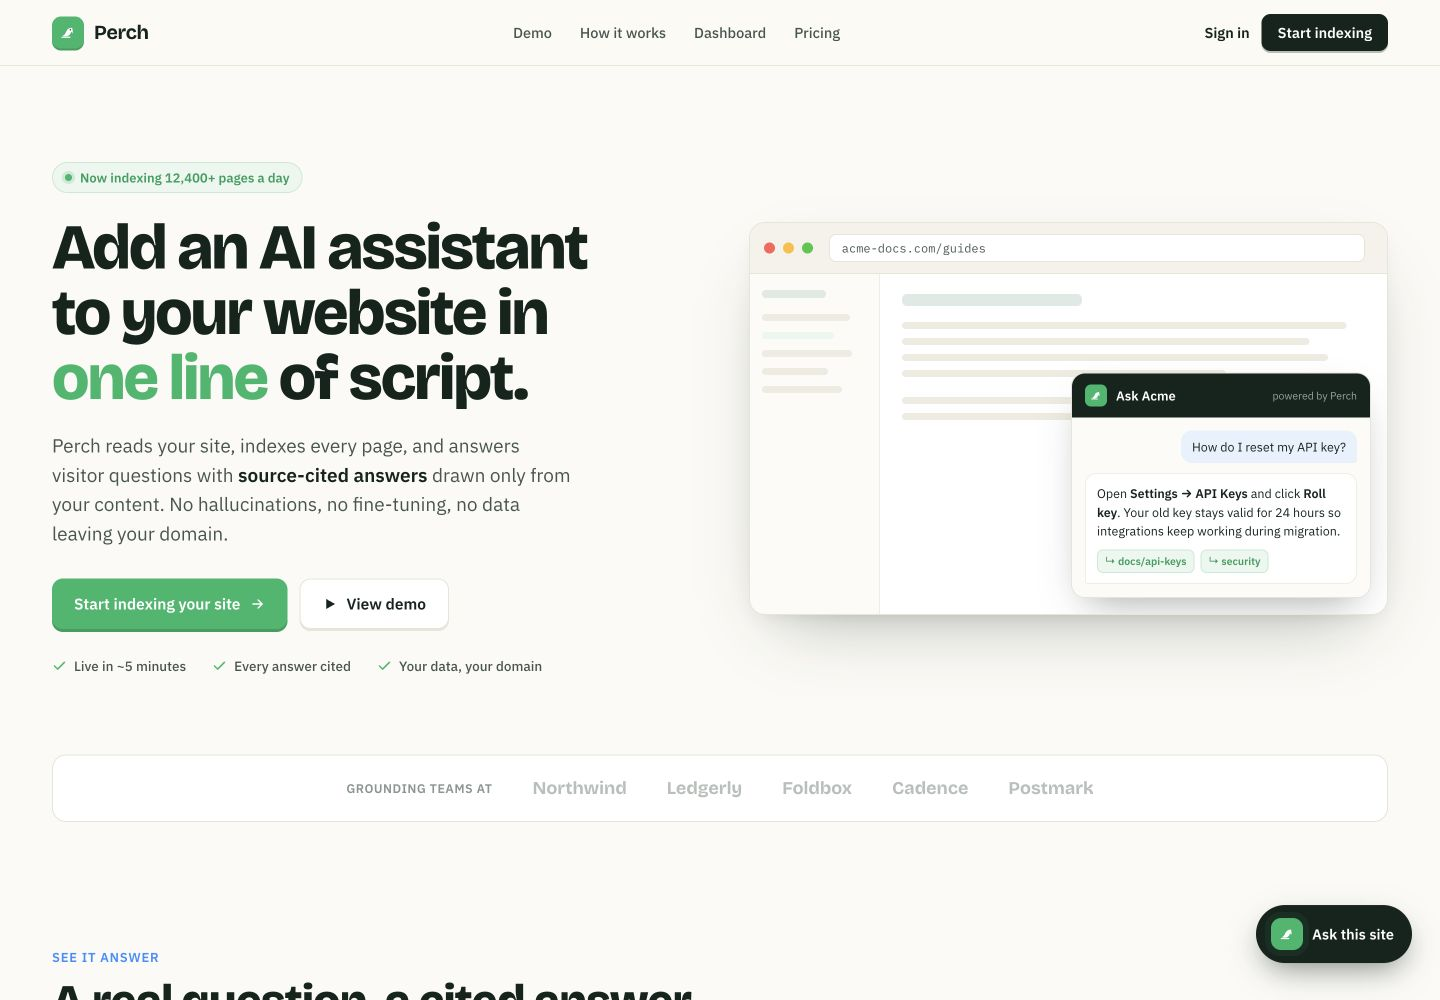
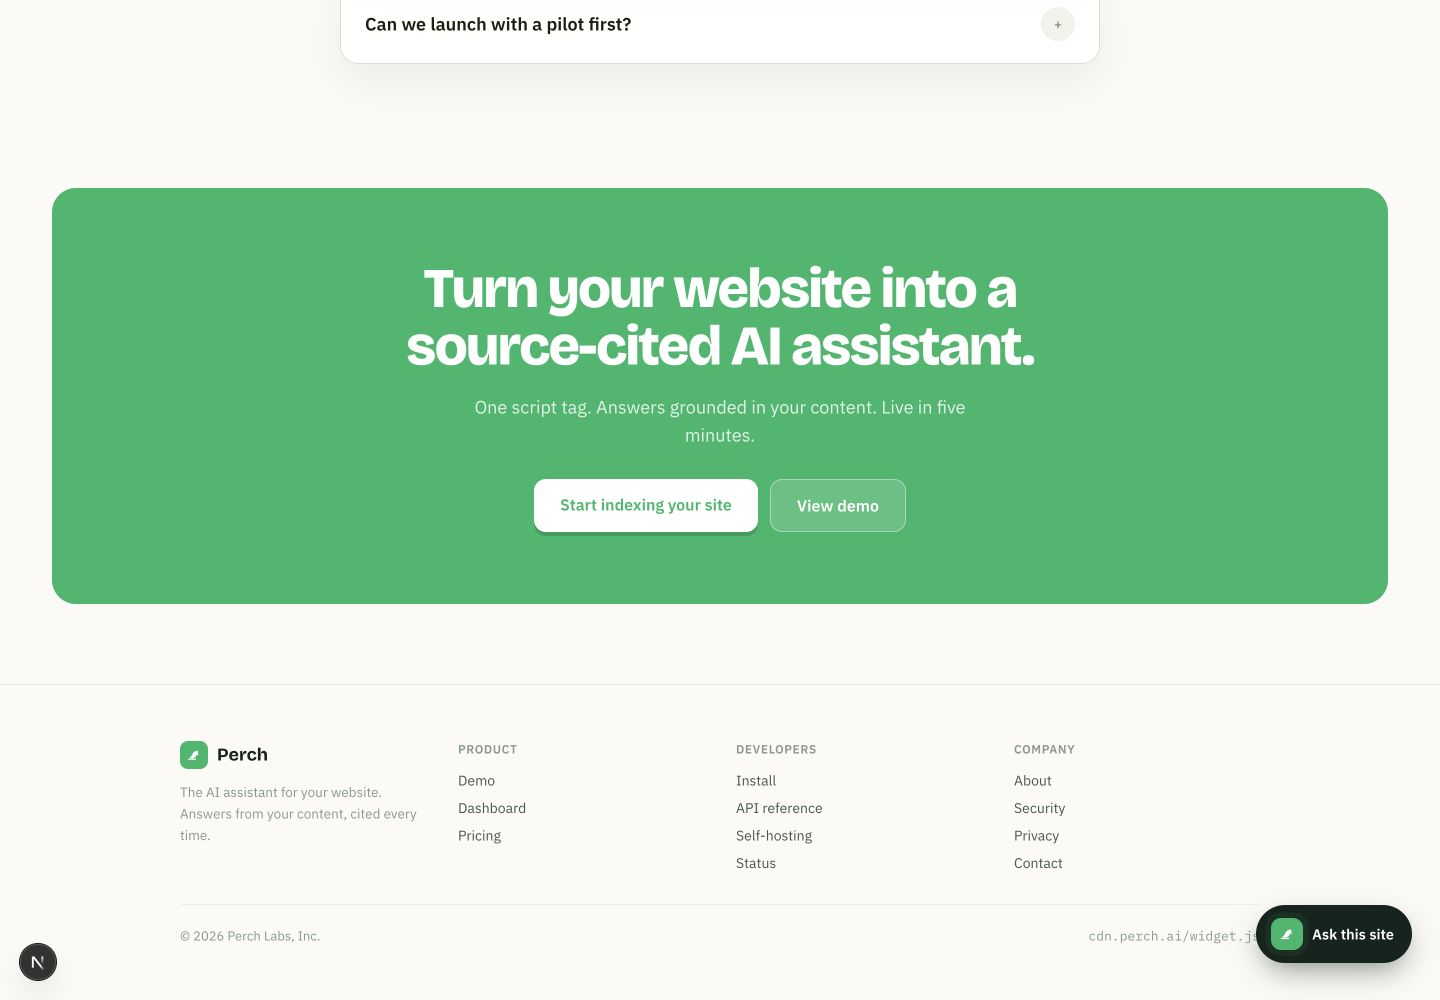
Polish frontend demo experience

diff --git a/apps/web/app/globals.css b/apps/web/app/globals.css
@@ -441,6 +441,118 @@ body > div section [style*="border-radius:18px"]:hover {
 }
 
 @media (max-width: 640px) {
+  body > div {
+    width: 100%;
+    max-width: 100vw;
+    overflow-x: hidden;
+  }
+
+  body > div > nav {
+    align-items: flex-start !important;
+    padding: 12px 18px !important;
+  }
+
+  nav {
+    align-items: center !important;
+    padding: 12px 18px !important;
+  }
+
+  nav > div:nth-of-type(1) {
+    max-width: 44vw;
+    gap: 14px !important;
+    overflow: hidden;
+  }
+
+  nav > div:nth-of-type(1) a:nth-child(n + 3),
+  nav > div:nth-of-type(2) a {
+    display: none !important;
+  }
+
+  body > div > nav > div:nth-child(2) {
+    max-width: 46vw;
+    gap: 14px !important;
+    overflow: hidden;
+  }
+
+  body > div > nav > div:nth-child(2) a:nth-child(n + 3),
+  body > div > nav > div:nth-child(3) a:first-child {
+    display: none !important;
+  }
+
+  body > div > nav > div:nth-child(3) a:last-child {
+    padding: 8px 10px !important;
+    font-size: 13px !important;
+    white-space: nowrap;
+  }
+
+  body > div > section {
+    max-width: 100vw;
+  }
+
+  body > div > section h1 {
+    max-width: 100%;
+    font-size: clamp(40px, 14vw, 56px) !important;
+    overflow-wrap: anywhere;
+  }
+
+  body > div > section h2 {
+    overflow-wrap: anywhere;
+  }
+
+  body > div > section p {
+    max-width: 100%;
+  }
+
+  body > div > section a {
+    max-width: 100%;
+  }
+
+  body > div > section:first-of-type > div:first-child > div:nth-of-type(2) a {
+    width: 100%;
+    justify-content: center;
+  }
+
+  body > div > section:first-of-type > div:nth-child(2) {
+    min-width: 0;
+  }
+
+  body > div > section:first-of-type > div:nth-child(2) > div > div:nth-child(2) {
+    grid-template-columns: 92px minmax(0, 1fr) !important;
+    min-height: 300px !important;
+  }
+
+  body > div > section:first-of-type > div:nth-child(2) > div > div:nth-child(2) > div:nth-child(3) {
+    right: 10px !important;
+    bottom: 10px !important;
+    width: min(280px, calc(100% - 20px)) !important;
+  }
+
+  body > div > section:first-of-type span[style*="acme-docs.com"] {
+    min-width: 0;
+    overflow: hidden;
+    text-overflow: ellipsis;
+    white-space: nowrap;
+  }
+
+  body > div > section:nth-of-type(6) > div:nth-child(2) > div:first-child {
+    flex-wrap: wrap;
+  }
+
+  body > div > section:nth-of-type(6) > div:nth-child(2) > div:first-child > span:last-child {
+    width: 100%;
+    margin-left: 0 !important;
+    overflow-x: auto;
+    padding-top: 4px;
+  }
+
+  body > div > section:nth-of-type(6) > div:nth-child(2) > div:nth-child(2) > div:first-child > div:first-child {
+    grid-template-columns: 1fr !important;
+  }
+
+  body > div > section [style*="font-family:'IBM Plex Mono'"] {
+    overflow-wrap: anywhere;
+  }
+
   .perch-widget {
     right: 12px;
     bottom: 12px;

diff --git a/apps/web/components/widget/SiteInteractions.tsx b/apps/web/components/widget/SiteInteractions.tsx
@@ -15,9 +15,45 @@ function setFaqState(item: HTMLElement, open: boolean) {
   indicator.style.color = open ? "#ffffff" : "#5d7550";
 }
 
+function formatCount(value: number, format?: string) {
+  if (format === "comma") {
+    return Math.round(value).toLocaleString("en-US");
+  }
+
+  if (value % 1 !== 0) {
+    return value.toFixed(1);
+  }
+
+  return Math.round(value).toString();
+}
+
 export function SiteInteractions() {
   useEffect(() => {
     const faqQuestions = [...document.querySelectorAll<HTMLButtonElement>("[data-faq-question]")];
+    const counters = [...document.querySelectorAll<HTMLElement>("[data-countup]")];
+    const animations = counters.map((counter) => {
+      const target = Number(counter.dataset.countup);
+      const format = counter.dataset.fmt;
+      const startedAt = performance.now();
+      const duration = 900;
+      let frame = 0;
+
+      const tick = (time: number) => {
+        const progress = Math.min((time - startedAt) / duration, 1);
+        const eased = 1 - Math.pow(1 - progress, 3);
+        counter.textContent = formatCount(target * eased, format);
+
+        if (progress < 1) {
+          frame = requestAnimationFrame(tick);
+        }
+      };
+
+      frame = requestAnimationFrame(tick);
+
+      return () => {
+        cancelAnimationFrame(frame);
+      };
+    });
 
     const faqHandlers = faqQuestions.map((question) => {
       const handler = () => {
@@ -41,6 +77,7 @@ export function SiteInteractions() {
 
     return () => {
       faqHandlers.forEach((removeHandler) => removeHandler());
+      animations.forEach((removeAnimation) => removeAnimation());
     };
   }, []);
 

diff --git a/apps/web/components/widget/CopySnippetButton.tsx b/apps/web/components/widget/CopySnippetButton.tsx
@@ -5,6 +5,19 @@ import { createPortal } from "react-dom";
 
 const snippet = "<script src=\"https://cdn.perch.ai/widget.js\" data-perch-key=\"pk_live_8f2c...a91\"></script>";
 
+async function copySnippetText() {
+  if (navigator.clipboard?.writeText) {
+    try {
+      await navigator.clipboard.writeText(snippet);
+      return true;
+    } catch {
+      return copyWithField();
+    }
+  }
+
+  return copyWithField();
+}
+
 function copyWithField() {
   const field = document.createElement("textarea");
   field.value = snippet;
@@ -32,14 +45,7 @@ export function CopySnippetButton() {
   function copySnippet() {
     setLabel("copied");
     window.setTimeout(() => setLabel("copy"), 1400);
-
-    if (copyWithField()) {
-      return;
-    }
-
-    if (navigator.clipboard?.writeText) {
-      void navigator.clipboard.writeText(snippet).catch(() => undefined);
-    }
+    void copySnippetText();
   }
 
   if (!target) {
@@ -51,7 +57,6 @@ export function CopySnippetButton() {
       className="perch-copy-button"
       type="button"
       onClick={copySnippet}
-      onPointerDown={copySnippet}
       onKeyDown={(event) => {
         if (event.key === "Enter" || event.key === " ") {
           copySnippet();

diff --git a/apps/web/app/landing-template.html b/apps/web/app/landing-template.html
@@ -192,8 +192,7 @@ body{margin:0;background:#FBFAF5;color:#14241d;font-family:"IBM Plex Sans",syste
       <span style="margin-left:6px;font-family:'IBM Plex Mono',monospace;font-size:11.5px;color:#6E8078">index.html</span>
       <span id="perch-copy-slot" style="margin-left:auto;display:inline-flex"></span>
     </div>
-    <pre style="margin:0;padding:20px 18px;overflow-x:auto;font-family:'IBM Plex Mono',monospace;font-size:13.5px;line-height:1.7"><span style="color:#6E8078">&lt;!-- Add before &lt;/body&gt; --&gt;</span>
-<span style="color:#7FB2FF">&lt;script</span> <span style="color:#FDB022">src</span>=<span style="color:#9BE7C0">"https://cdn.perch.ai/widget.js"</span>
+    <pre style="margin:0;padding:20px 18px;overflow-x:auto;font-family:'IBM Plex Mono',monospace;font-size:13.5px;line-height:1.7"><span style="color:#7FB2FF">&lt;script</span> <span style="color:#FDB022">src</span>=<span style="color:#9BE7C0">"https://cdn.perch.ai/widget.js"</span>
         <span style="color:#FDB022">data-perch-key</span>=<span style="color:#9BE7C0">"pk_live_8f2c...a91"</span><span style="color:#7FB2FF">&gt;&lt;/script&gt;</span></pre>
   </div>
 </section>
@@ -269,10 +268,11 @@ body{margin:0;background:#FBFAF5;color:#14241d;font-family:"IBM Plex Sans",syste
         <div style="font-size:13px;font-weight:600;margin-bottom:10px">Install snippet</div>
         <div style="background:#0C1712;border-radius:10px;padding:13px 14px;font-family:'IBM Plex Mono',monospace;font-size:11.5px;line-height:1.6;color:#9BE7C0;overflow-x:auto;margin-bottom:22px"><span style="color:#7FB2FF">&lt;script</span> src=<span style="color:#9BE7C0">"…/widget.js"</span> data-perch-key=<span style="color:#FDB022">"pk_live_8f2c"</span><span style="color:#7FB2FF">&gt;&lt;/script&gt;</span></div>
 
-        <div style="font-size:13px;font-weight:600;margin-bottom:10px">Widget theme</div>
-        <div style="display:flex;align-items:center;gap:14px;flex-wrap:wrap">
-          <div style="display:flex;gap:8px;align-items:center"><span style="font-size:12px;color:#46564f">Accent</span><span style="width:22px;height:22px;border-radius:6px;background:#12B76A;box-shadow:0 0 0 2px #fff,0 0 0 3.5px #12B76A"></span><span style="width:22px;height:22px;border-radius:6px;background:#2E90FA"></span><span style="width:22px;height:22px;border-radius:6px;background:#FDB022"></span><span style="width:22px;height:22px;border-radius:6px;background:#14241d"></span></div>
-          <div style="display:flex;gap:8px;align-items:center"><span style="font-size:12px;color:#46564f">Corner</span><div style="width:38px;height:22px;background:#EFEDE3;border-radius:999px;position:relative"><span style="position:absolute;top:2px;right:2px;width:18px;height:18px;border-radius:50%;background:#12B76A"></span></div></div>
+        <div style="font-size:13px;font-weight:600;margin-bottom:10px">Crawl jobs</div>
+        <div style="display:flex;flex-direction:column;gap:9px">
+          <div style="display:grid;grid-template-columns:1fr auto;gap:10px;align-items:center;padding:11px 13px;background:#FCFBF7;border:1px solid #EFEDE3;border-radius:10px"><span style="font-size:12.5px;color:#46564f">/docs/security indexed 42 chunks</span><span style="font-size:10.5px;font-weight:700;color:#0E9E5B;background:#EAF7EF;padding:3px 7px;border-radius:999px">completed</span></div>
+          <div style="display:grid;grid-template-columns:1fr auto;gap:10px;align-items:center;padding:11px 13px;background:#FCFBF7;border:1px solid #EFEDE3;border-radius:10px"><span style="font-size:12.5px;color:#46564f">/pricing queued from sitemap</span><span style="font-size:10.5px;font-weight:700;color:#2E90FA;background:#E7F1FD;padding:3px 7px;border-radius:999px">running</span></div>
+          <div style="display:grid;grid-template-columns:1fr auto;gap:10px;align-items:center;padding:11px 13px;background:#FCFBF7;border:1px solid #EFEDE3;border-radius:10px"><span style="font-size:12.5px;color:#46564f">/legal skipped by robots policy</span><span style="font-size:10.5px;font-weight:700;color:#B25B00;background:#FEF6E6;padding:3px 7px;border-radius:999px">skipped</span></div>
         </div>
       </div>
     </div>

diff --git a/README.md b/README.md
@@ -12,6 +12,8 @@ Perch is built around one narrow promise: visitors should be able to ask a websi
 
 ![Perch cited answer demo](apps/web/public/screenshots/perch-demo-section.png)
 
+![Perch mobile website](apps/web/public/screenshots/perch-mobile.png)
+
 ## Status
 
 Perch is a portfolio-grade SaaS architecture prototype. It is designed to show clean service boundaries, a working local demo, and honest RAG product mechanics without pretending to be production infrastructure.